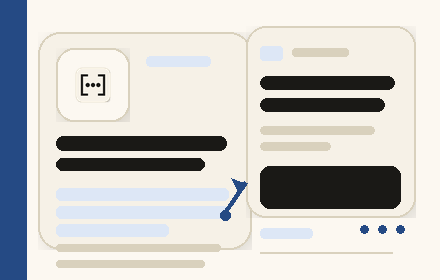
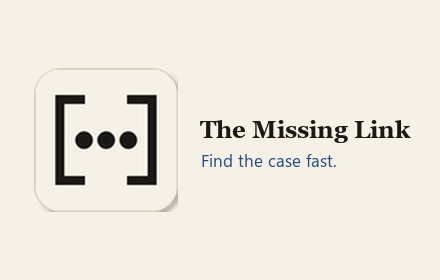
Update publish status and simplify Chrome promo tile

diff --git a/scripts/generate-store-assets.py b/scripts/generate-store-assets.py
@@ -1,94 +1,81 @@
-"""Generate Chrome Web Store artwork.
-
-Creates:
-  - a less text-heavy 440x280 promotional image
-
-The 128x128 store icon is generated by icons/generate.py.
-"""
+"""Generate the simple Chrome Web Store promo tile."""
 
 from pathlib import Path
 
-from PIL import Image, ImageDraw, ImageFilter
+from PIL import Image, ImageDraw, ImageFont
 
 ROOT = Path(__file__).resolve().parents[1]
 OUT_DIR = ROOT / "docs" / "store-assets"
 
 PAPER = (246, 241, 231, 255)
-PAPER_ALT = (252, 248, 241, 255)
 INK = (26, 25, 22, 255)
 ACCENT = (37, 74, 132, 255)
-ACCENT_SOFT = (221, 231, 246, 255)
-RULE = (217, 209, 189, 255)
-SHADOW = (0, 0, 0, 55)
+
+TITLE_FONTS = (
+    "C:/Windows/Fonts/georgiab.ttf",
+    "C:/Windows/Fonts/Georgia Bold.ttf",
+    "C:/Windows/Fonts/timesbd.ttf",
+)
+TAGLINE_FONTS = (
+    "C:/Windows/Fonts/segoeui.ttf",
+    "C:/Windows/Fonts/arial.ttf",
+)
 
 
-def rounded_panel(size, radius, fill, outline=None, outline_width=1, shadow=False):
-    w, h = size
-    panel = Image.new("RGBA", size, (0, 0, 0, 0))
-    if shadow:
-        shadow_img = Image.new("RGBA", size, (0, 0, 0, 0))
-        sd = ImageDraw.Draw(shadow_img)
-        sd.rounded_rectangle((8, 8, w - 2, h - 2), radius=radius, fill=SHADOW)
-        shadow_img = shadow_img.filter(ImageFilter.GaussianBlur(10))
-        panel.alpha_composite(shadow_img)
-    d = ImageDraw.Draw(panel)
-    d.rounded_rectangle((0, 0, w - 1, h - 1), radius=radius, fill=fill, outline=outline, width=outline_width)
-    return panel
+def load_font(size, *candidates):
+    for candidate in candidates:
+        try:
+            return ImageFont.truetype(candidate, size)
+        except OSError:
+            continue
+    return ImageFont.load_default()
+
+
+def fit_font(text, max_width, sizes, *candidates):
+    probe = ImageDraw.Draw(Image.new("RGBA", (1, 1), (0, 0, 0, 0)))
+    for size in sizes:
+        font = load_font(size, *candidates)
+        left, _, right, _ = probe.textbbox((0, 0), text, font=font)
+        if right - left <= max_width:
+            return font
+    return load_font(sizes[-1], *candidates)
+
+
+def box_size(draw, text, font):
+    left, top, right, bottom = draw.textbbox((0, 0), text, font=font)
+    return right - left, bottom - top
 
 
 def make_promo():
+    width, height = 440, 280
+    img = Image.new("RGBA", (width, height), PAPER)
+    draw = ImageDraw.Draw(img)
+
+    icon_size = 144
+    icon_x = 34
+    icon_y = (height - icon_size) // 2
+    icon = Image.open(ROOT / "icons" / "icon-96.png").convert("RGBA")
+    icon = icon.resize((icon_size, icon_size), Image.LANCZOS)
+    img.alpha_composite(icon, (icon_x, icon_y))
+
+    title = "The Missing Link"
+    tagline = "Find the case fast."
+    text_x = icon_x + icon_size + 22
+    max_text_width = width - text_x - 24
+
+    title_font = fit_font(title, max_text_width, list(range(30, 21, -1)), *TITLE_FONTS)
+    tagline_font = load_font(17, *TAGLINE_FONTS)
+
+    _, title_h = box_size(draw, title, title_font)
+    _, tagline_h = box_size(draw, tagline, tagline_font)
+    gap = 10
+    block_h = title_h + gap + tagline_h
+    text_y = (height - block_h) // 2 - 2
+
+    draw.text((text_x, text_y), title, font=title_font, fill=INK)
+    draw.text((text_x + 1, text_y + title_h + gap), tagline, font=tagline_font, fill=ACCENT)
+
     OUT_DIR.mkdir(parents=True, exist_ok=True)
-    img = Image.new("RGBA", (440, 280), PAPER_ALT)
-    d = ImageDraw.Draw(img)
-
-    d.rectangle((0, 0, 26, 280), fill=ACCENT)
-
-    # Large article card on the left.
-    article = rounded_panel((214, 218), 22, PAPER, outline=RULE, outline_width=2, shadow=True)
-    img.alpha_composite(article, (38, 32))
-
-    # Smaller result popup card floating on the right.
-    popup = rounded_panel((170, 192), 20, PAPER, outline=RULE, outline_width=2, shadow=True)
-    img.alpha_composite(popup, (246, 26))
-
-    # Floating icon chip at the top of the article card.
-    chip = rounded_panel((74, 74), 18, PAPER_ALT, outline=RULE, outline_width=2, shadow=True)
-    img.alpha_composite(chip, (56, 48))
-    icon = Image.open(ROOT / "icons" / "icon-128.png").convert("RGBA").resize((46, 46), Image.LANCZOS)
-    img.alpha_composite(icon, (70, 62))
-
-    # Stylized article composition: kicker, headline, selected excerpt, body.
-    d.rounded_rectangle((146, 56, 210, 66), radius=4, fill=ACCENT_SOFT)
-    d.rounded_rectangle((56, 136, 226, 150), radius=7, fill=INK)
-    d.rounded_rectangle((56, 158, 204, 170), radius=6, fill=INK)
-
-    # Highlighted "focus passage".
-    for y in (188, 206):
-        d.rounded_rectangle((56, y, 228, y + 12), radius=5, fill=ACCENT_SOFT)
-    d.rounded_rectangle((56, 224, 168, 236), radius=5, fill=ACCENT_SOFT)
-
-    # Body lines beneath the highlight.
-    for width, y in ((164, 244), (148, 260)):
-        d.rounded_rectangle((56, y, 56 + width, y + 7), radius=3, fill=RULE)
-
-    # Connector from selected passage to result card.
-    d.line((224, 214, 246, 182), fill=ACCENT, width=4)
-    d.ellipse((220, 210, 230, 220), fill=ACCENT)
-    d.polygon(((242, 182), (231, 178), (238, 191)), fill=ACCENT)
-
-    # Popup UI cues that read more clearly as a found case result.
-    d.rounded_rectangle((260, 46, 282, 60), radius=3, fill=ACCENT_SOFT)
-    d.rounded_rectangle((292, 48, 348, 56), radius=3, fill=RULE)
-    d.rounded_rectangle((260, 76, 394, 89), radius=6, fill=INK)
-    d.rounded_rectangle((260, 98, 384, 111), radius=6, fill=INK)
-    d.rounded_rectangle((260, 126, 374, 134), radius=4, fill=RULE)
-    d.rounded_rectangle((260, 142, 330, 150), radius=4, fill=RULE)
-    d.rounded_rectangle((260, 166, 400, 208), radius=10, fill=INK)
-    d.rounded_rectangle((260, 228, 312, 238), radius=4, fill=ACCENT_SOFT)
-    d.line((260, 252, 392, 252), fill=RULE, width=2)
-    for x in (360, 378, 396):
-        d.ellipse((x, 225, x + 8, 233), fill=ACCENT)
-
     img.save(OUT_DIR / "chrome-small-promo-440x280.png", "PNG", optimize=True)
 
 

diff --git a/README.md b/README.md
@@ -4,11 +4,15 @@
 
 A browser extension that finds the case discussed on a web page and links you straight to it on [CourtListener](https://www.courtlistener.com). Click the toolbar button, Claude identifies the case, and the extension searches CourtListener for the match.
 
-> **Status:** Firefox Add-ons currently carries `v0.5.0` at [addons.mozilla.org](https://addons.mozilla.org/en-US/firefox/addon/the-missing-link/). The source tree is now ahead at `v0.6.0` with Chrome/MV3 support and additional search hardening.
+> **Status:** Chrome Web Store now carries `v0.6.0` at [chromewebstore.google.com](https://chromewebstore.google.com/detail/the-missing-link/keabioafoggdllieldimckfijklbdoii), updated June 13, 2026. Firefox Add-ons still carries `v0.5.0` at [addons.mozilla.org](https://addons.mozilla.org/en-US/firefox/addon/the-missing-link/).
 
 ## Install
 
-Install from Firefox Add-ons:
+Install from Chrome Web Store:
+
+<https://chromewebstore.google.com/detail/the-missing-link/keabioafoggdllieldimckfijklbdoii>
+
+Or from Firefox Add-ons:
 
 <https://addons.mozilla.org/en-US/firefox/addon/the-missing-link/>
 
@@ -62,7 +66,7 @@ Most useful things to flag:
 
 ## Limitations
 
-- **Chrome support is currently source-only.** Firefox has the public AMO listing; Chrome/Chromium currently requires loading the unpacked extension locally.
+- **Store versions are temporarily split.** Chrome Web Store is on `v0.6.0`; Firefox Add-ons is still on `v0.5.0`.
 - **Single case per click.** If a page discusses multiple cases and you do not select one, you get whichever case Claude weighted highest.
 - **Won't find what isn't on CourtListener.** State trial-court filings and very recent matters may not be in RECAP yet.
 - **Smaller models can hallucinate confidently** on articles where the case is not clearly named. If you suspect a wrong answer, switch to Opus in settings and re-run.

diff --git a/CHANGELOG.md b/CHANGELOG.md
@@ -2,6 +2,7 @@
 
 ## 0.6.0
 
+- **Published to the Chrome Web Store.** Public listing: https://chromewebstore.google.com/detail/the-missing-link/keabioafoggdllieldimckfijklbdoii
 - **Chrome support via MV3.** The extension now runs in Chrome/Chromium with an MV3 manifest, `action`, host permissions, a service-worker loader, and the vendored `webextension-polyfill`.
 - **Safer and smarter CourtListener matching.** Search now handles acronym-heavy captions better (for example `BBC`/`British Broadcasting Corporation`), simplifies certain government-plaintiff RECAP captions, runs compact fallback queries from the selected text/title, and rejects obviously implausible matches instead of confidently surfacing unrelated cases.
 - **Much better behavior on several real-world misses.** Reuters `Trump v. BBC`, EEOC/JAG, Tangier, and the Politico UFC follow-up all improved materially during manual testing; some still remain imperfect on exact document selection or thin/paywalled coverage.